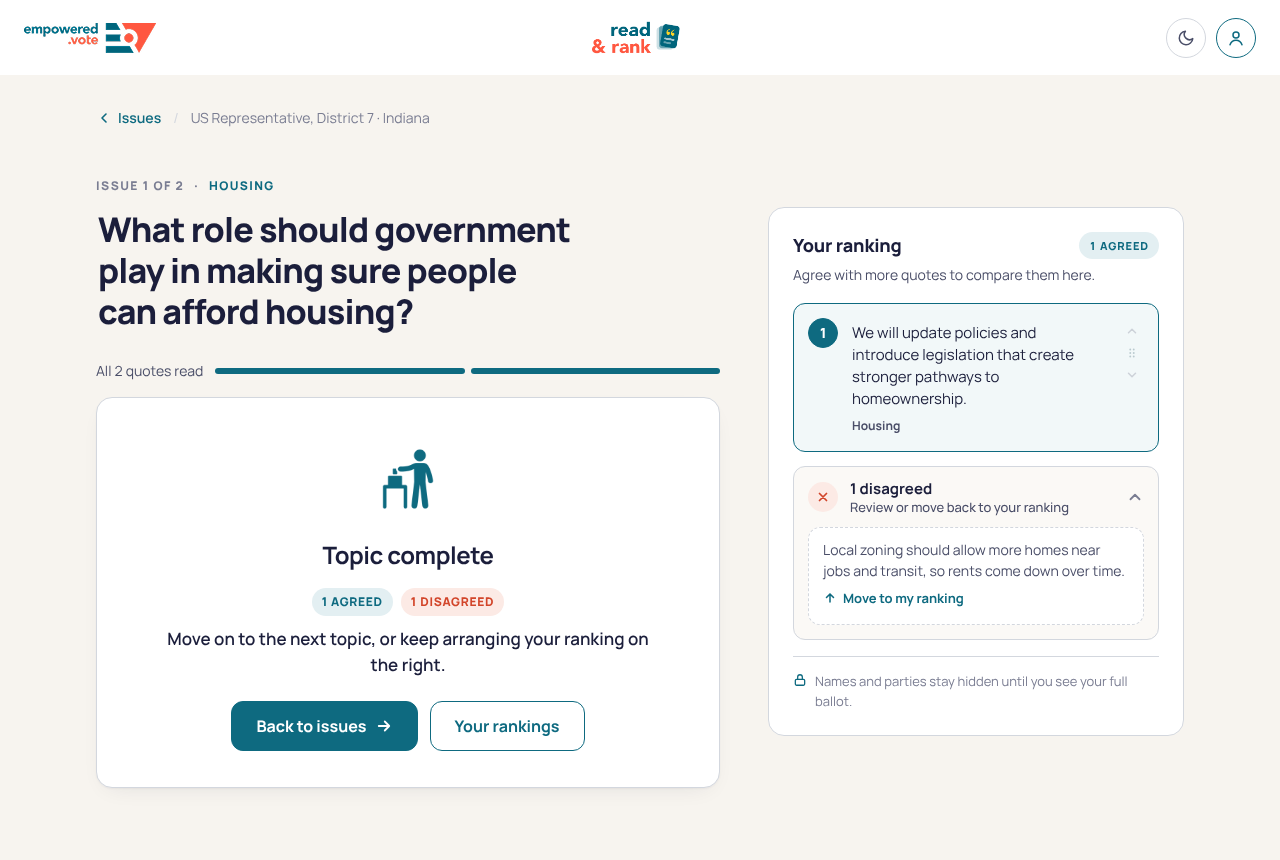
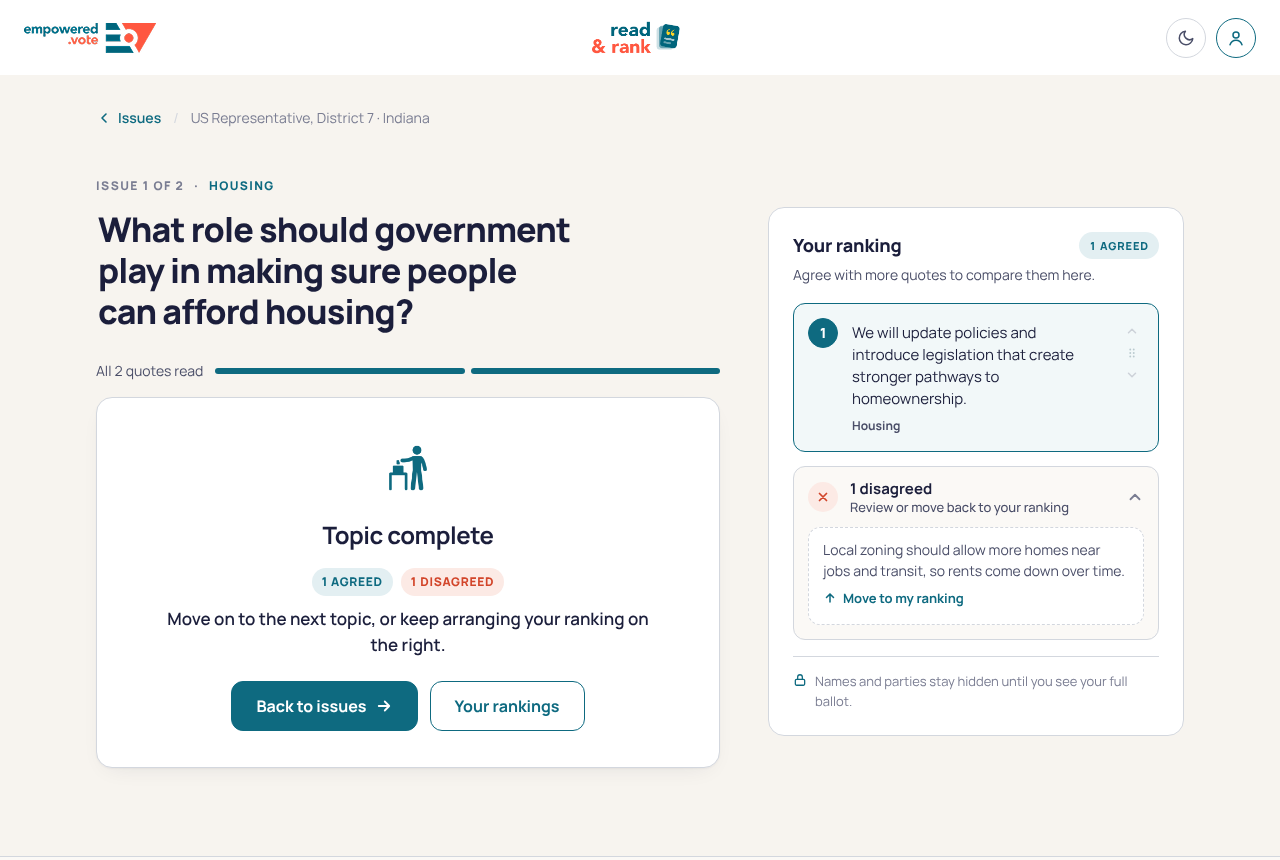
docs: Make the Bobit figures smaller again
Claude-Session: https://claude.ai/code/session_01DwfCu4GsxXBrSLCryEySUF

Changed region(s): [[0.0938, 0.514, 0.5625, 0.907]]

diff --git a/docs/design/readrank-ux-redesign/prototype/index.html b/docs/design/readrank-ux-redesign/prototype/index.html
@@ -142,9 +142,9 @@
   @keyframes bubble-in { from { opacity: 0; translate: 0 6px; } }
   #s-landing .bobit-stage { display: block; width: 100%; padding: 0; border: 0; background: none; cursor: pointer; border-radius: 16px; }
   #s-landing .bobit-stage:focus-visible { outline: 3px solid color-mix(in srgb, var(--teal) 40%, transparent); outline-offset: 2px; }
-  #s-landing .bobit canvas { display: block; width: 100%; height: 175px; color: var(--teal); }
+  #s-landing .bobit canvas { display: block; width: 100%; height: 135px; color: var(--teal); }
   @media (prefers-reduced-motion: reduce) { #s-landing .bubble.swap > * { animation: none; } }
-  @media (max-width: 880px) { #s-landing .bobit canvas { height: 140px; } }
+  @media (max-width: 880px) { #s-landing .bobit canvas { height: 110px; } }
 
   
   #s-landing .elections { padding-block: 8px 72px; }
@@ -886,7 +886,7 @@
   @media (max-width: 900px) { #s-read .catnav { margin-inline: calc(-1 * var(--side)); padding-inline: var(--side); } }
 
   
-  #s-read .ballot-fig { position: relative; display: inline-block; width: 112px; aspect-ratio: 1; flex: none; }
+  #s-read .ballot-fig { position: relative; display: inline-block; width: 84px; aspect-ratio: 1; flex: none; }
   #s-read .ballot-fig::before {
     content: ""; position: absolute; inset: 0; background: var(--fig, var(--teal));
     -webkit-mask: url("assets/ballot-figure.png") center / contain no-repeat;
@@ -905,7 +905,7 @@
     100% { transform: translateY(100%); opacity: 0; }
   }
   @media (prefers-reduced-motion: reduce) { #s-read .ballot-fig .slip { animation: none !important; opacity: 1; } }
-  #s-read .done-fig { width: 90px; margin-bottom: -6px; }
+  #s-read .done-fig { width: 68px; margin-bottom: -4px; }
   
   
   :root { --logo-light: block; --logo-dark: none; }
@@ -1260,7 +1260,7 @@
   @media (prefers-reduced-motion: reduce) { #s-ballot .col-main > *, #s-ballot .col-side > * { opacity: 1; translate: none; } }
 
   
-  #s-ballot .ballot-fig { position: relative; display: inline-block; width: 112px; aspect-ratio: 1; flex: none; }
+  #s-ballot .ballot-fig { position: relative; display: inline-block; width: 84px; aspect-ratio: 1; flex: none; }
   #s-ballot .ballot-fig::before {
     content: ""; position: absolute; inset: 0; background: var(--fig, var(--teal));
     -webkit-mask: url("assets/ballot-figure.png") center / contain no-repeat;
@@ -1279,7 +1279,7 @@
     100% { transform: translateY(100%); opacity: 0; }
   }
   @media (prefers-reduced-motion: reduce) { #s-ballot .ballot-fig .slip { animation: none !important; opacity: 1; } }
-  #s-ballot .hero-fig { position: absolute; right: 48px; bottom: -8px; width: 100px; --fig: rgba(247, 244, 239, .92); --slip-edge: #1B1E3B; --slip-delay: 1s; }
+  #s-ballot .hero-fig { position: absolute; right: 48px; bottom: -6px; width: 76px; --fig: rgba(247, 244, 239, .92); --slip-edge: #1B1E3B; --slip-delay: 1s; }
   @media (max-width: 1023px) { #s-ballot .hero-fig { display: none; } }
   #s-ballot .mark.rank { background: var(--teal-tint); color: var(--teal); font-weight: 800; font-size: 14px; }
   #s-ballot .mark.none { color: var(--ink-3); font-weight: 700; }

diff --git a/docs/design/readrank-ux-redesign/prototype/ballot.html b/docs/design/readrank-ux-redesign/prototype/ballot.html
@@ -348,7 +348,7 @@
   @media (prefers-reduced-motion: reduce) { .col-main > *, .col-side > * { opacity: 1; translate: none; } }
 
   /* Ballot-casting figure from empowered.vote (icons/Sticks/noun_ballot), recolored with a mask */
-  .ballot-fig { position: relative; display: inline-block; width: 112px; aspect-ratio: 1; flex: none; }
+  .ballot-fig { position: relative; display: inline-block; width: 84px; aspect-ratio: 1; flex: none; }
   .ballot-fig::before {
     content: ""; position: absolute; inset: 0; background: var(--fig, var(--teal));
     -webkit-mask: url("assets/ballot-figure.png") center / contain no-repeat;
@@ -367,7 +367,7 @@
     100% { transform: translateY(100%); opacity: 0; }
   }
   @media (prefers-reduced-motion: reduce) { .ballot-fig .slip { animation: none !important; opacity: 1; } }
-  .hero-fig { position: absolute; right: 48px; bottom: -8px; width: 100px; --fig: rgba(247, 244, 239, .92); --slip-edge: #1B1E3B; --slip-delay: 1s; }
+  .hero-fig { position: absolute; right: 48px; bottom: -6px; width: 76px; --fig: rgba(247, 244, 239, .92); --slip-edge: #1B1E3B; --slip-delay: 1s; }
   @media (max-width: 1023px) { .hero-fig { display: none; } }
   .mark.rank { background: var(--teal-tint); color: var(--teal); font-weight: 800; font-size: 14px; }
   .mark.none { color: var(--ink-3); font-weight: 700; }

diff --git a/docs/design/readrank-ux-redesign/prototype/read.html b/docs/design/readrank-ux-redesign/prototype/read.html
@@ -359,7 +359,7 @@
   @media (max-width: 900px) { .catnav { margin-inline: calc(-1 * var(--side)); padding-inline: var(--side); } }
 
   /* Ballot-casting figure from empowered.vote (icons/Sticks/noun_ballot), recolored with a mask */
-  .ballot-fig { position: relative; display: inline-block; width: 112px; aspect-ratio: 1; flex: none; }
+  .ballot-fig { position: relative; display: inline-block; width: 84px; aspect-ratio: 1; flex: none; }
   .ballot-fig::before {
     content: ""; position: absolute; inset: 0; background: var(--fig, var(--teal));
     -webkit-mask: url("assets/ballot-figure.png") center / contain no-repeat;
@@ -378,7 +378,7 @@
     100% { transform: translateY(100%); opacity: 0; }
   }
   @media (prefers-reduced-motion: reduce) { .ballot-fig .slip { animation: none !important; opacity: 1; } }
-  .done-fig { width: 90px; margin-bottom: -6px; }
+  .done-fig { width: 68px; margin-bottom: -4px; }
   /* end EV layout */
   /* Read & Rank logo: official dark-theme version in dark mode */
   :root { --logo-light: block; --logo-dark: none; }

diff --git a/docs/design/readrank-ux-redesign/prototype/landing.html b/docs/design/readrank-ux-redesign/prototype/landing.html
@@ -136,9 +136,9 @@
   @keyframes bubble-in { from { opacity: 0; translate: 0 6px; } }
   .bobit-stage { display: block; width: 100%; padding: 0; border: 0; background: none; cursor: pointer; border-radius: 16px; }
   .bobit-stage:focus-visible { outline: 3px solid color-mix(in srgb, var(--teal) 40%, transparent); outline-offset: 2px; }
-  .bobit canvas { display: block; width: 100%; height: 175px; color: var(--teal); }
+  .bobit canvas { display: block; width: 100%; height: 135px; color: var(--teal); }
   @media (prefers-reduced-motion: reduce) { .bubble.swap > * { animation: none; } }
-  @media (max-width: 880px) { .bobit canvas { height: 140px; } }
+  @media (max-width: 880px) { .bobit canvas { height: 110px; } }
 
   /* Elections */
   .elections { padding-block: 8px 72px; }
